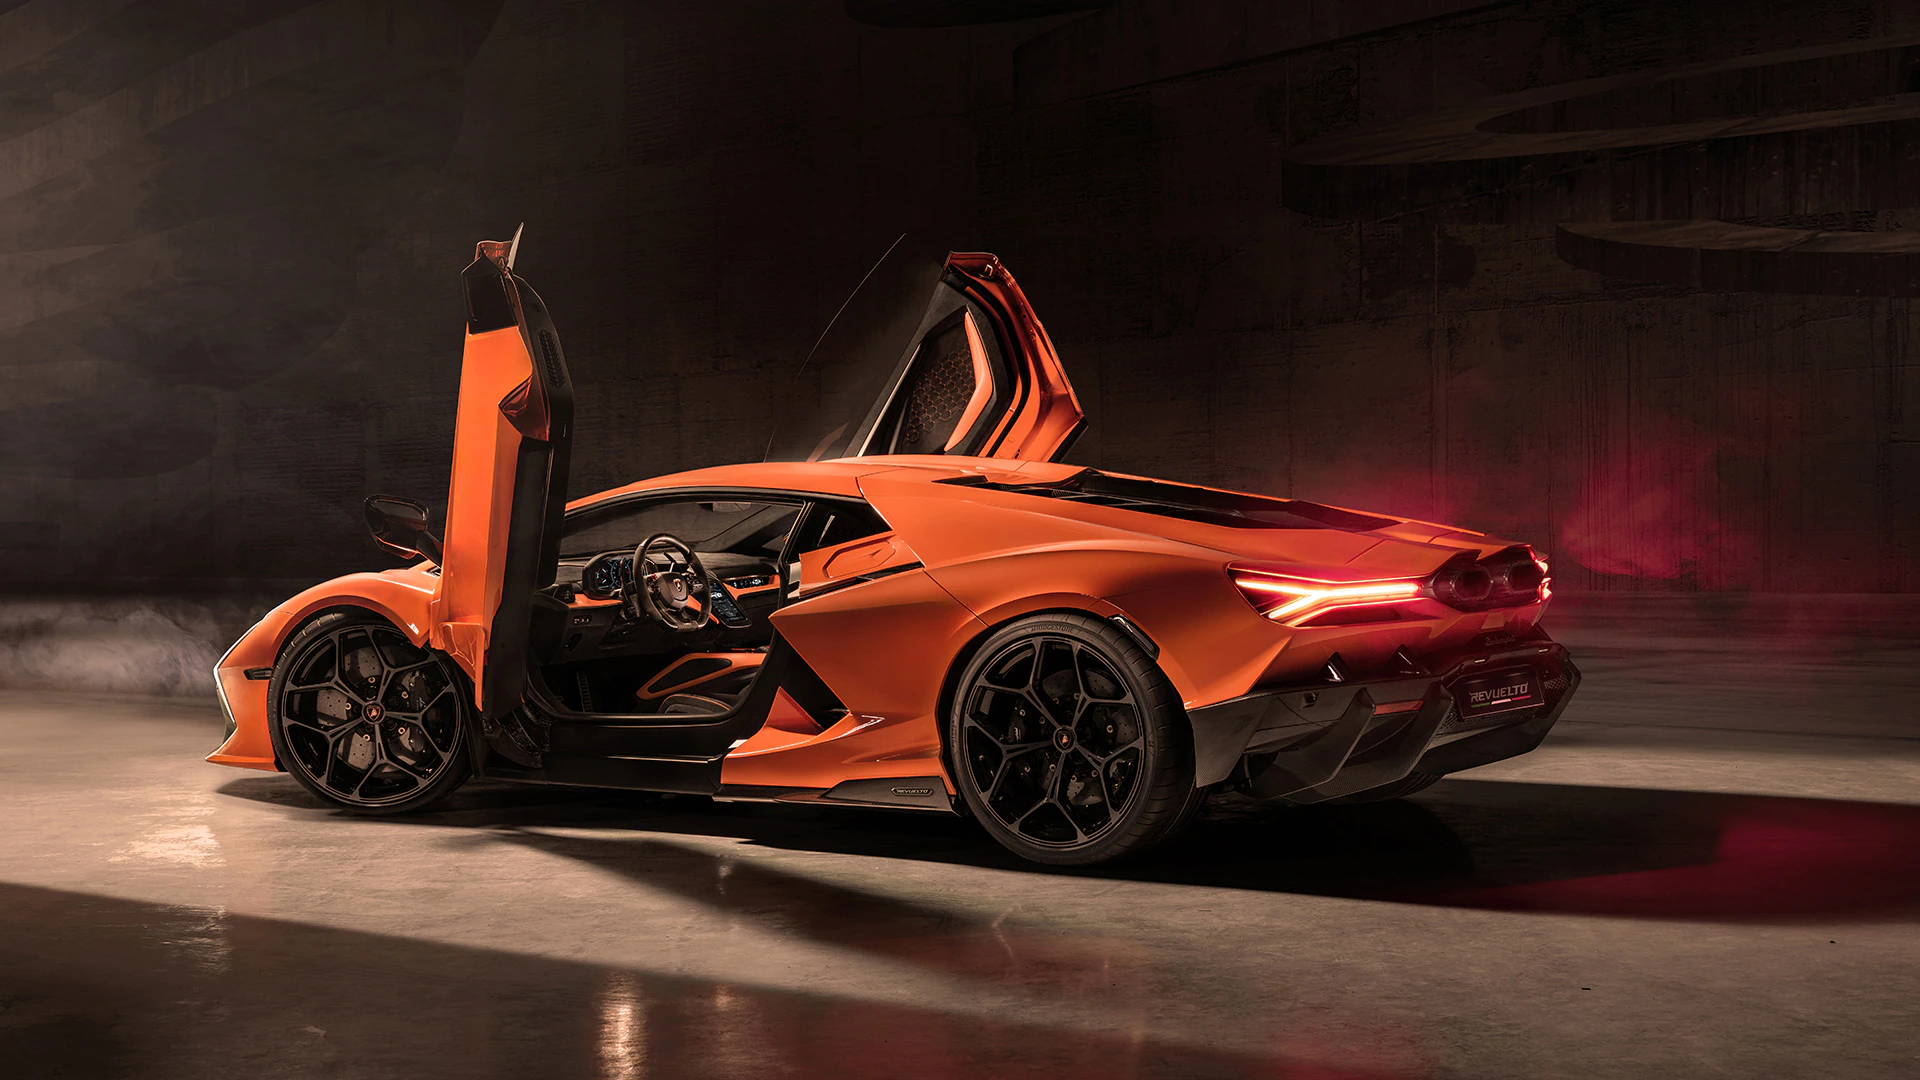
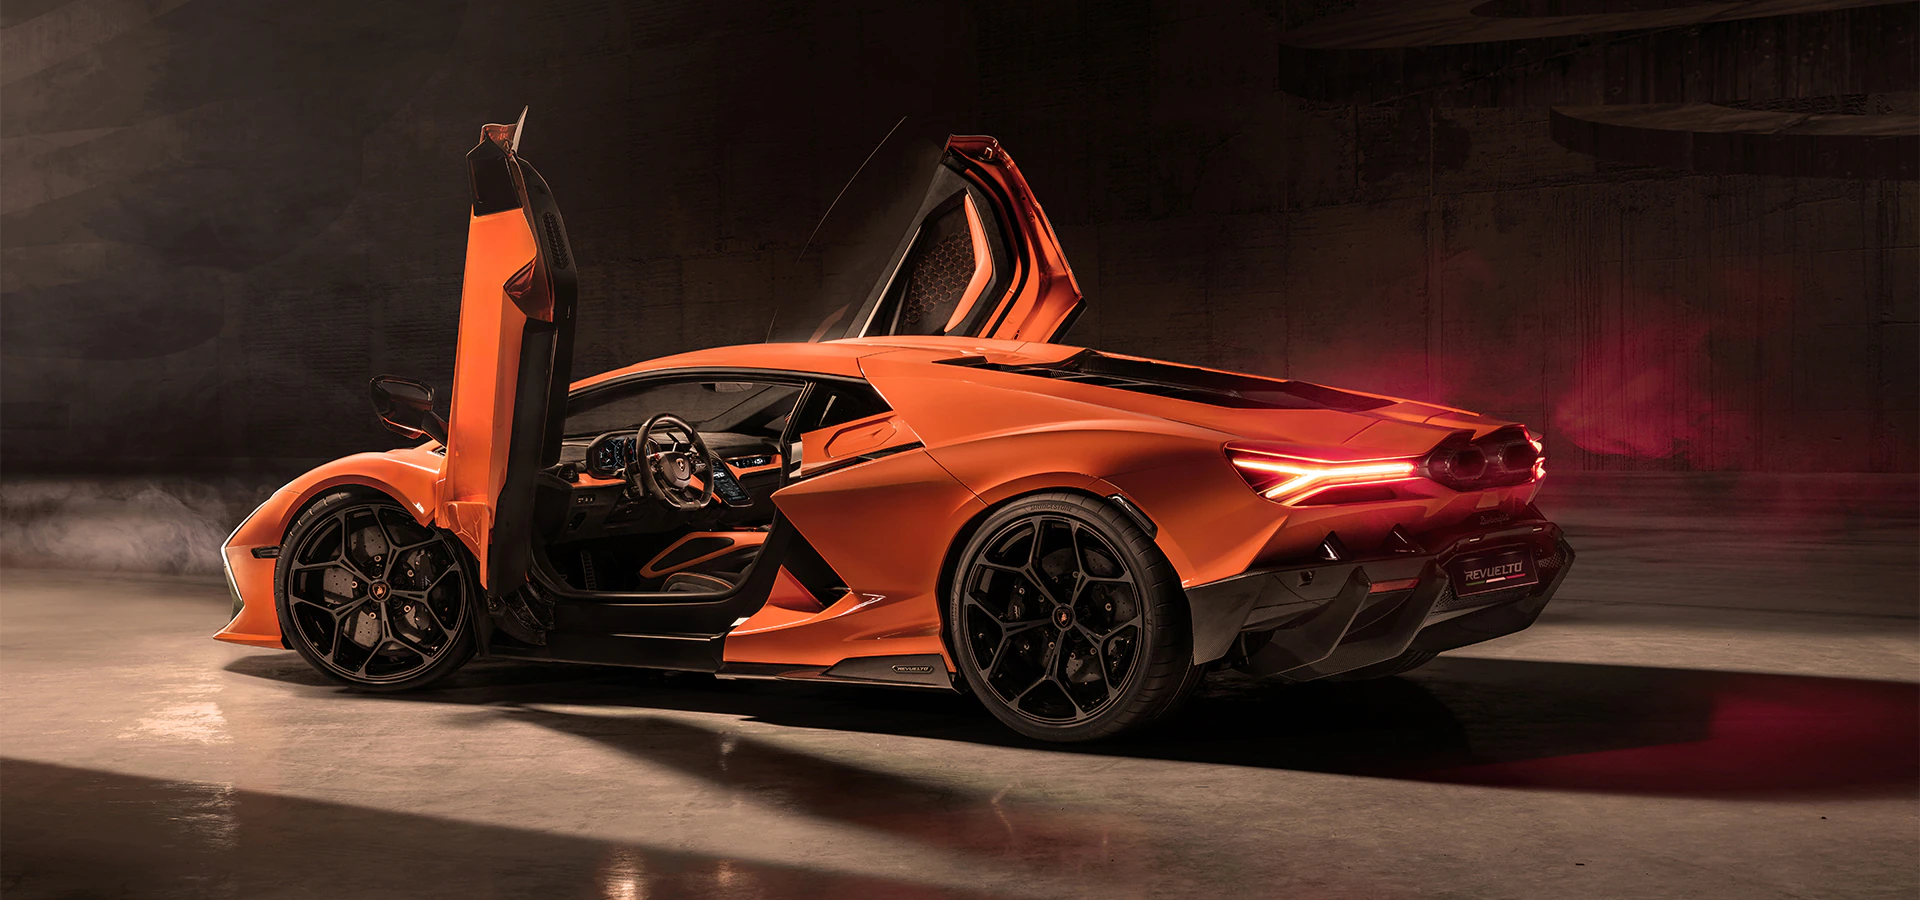
Revuelto_slider

diff --git a/html/Revuelto.html b/html/Revuelto.html
@@ -1160,16 +1160,16 @@
         <img class="d-block w-100" src="../resources/Revuelto/slider1.webp" alt="First slide">
       </div>
       <div class="carousel-item">
-        <img class="d-block w-100" src="../resources/Revuelto/slider1.webp" alt="Second slide">
+        <img class="d-block w-100" src="../resources/Revuelto/slider2.webp" alt="Second slide">
       </div>
       <div class="carousel-item">
-        <img class="d-block w-100" src="../resources/Revuelto/slider1.webp" alt="Third slide">
+        <img class="d-block w-100" src="../resources/Revuelto/slider3.jpg" alt="Third slide">
       </div>
       <div class="carousel-item">
-        <img class="d-block w-100" src="../resources/Revuelto/slider1.webp" alt="Third slide">
+        <img class="d-block w-100" src="../resources/Revuelto/slider4.jpg" alt="Third slide">
       </div>
       <div class="carousel-item">
-        <img class="d-block w-100" src="../resources/Revuelto/slider1.webp" alt="Third slide">
+        <img class="d-block w-100" src="../resources/Revuelto/slider5.jpg" alt="Third slide">
       </div>
     </div>
     <a class="carousel-control-prev" href="#carouselExampleIndicators" role="button" data-slide="prev">

diff --git a/css/Revuelto/Revuelto.css b/css/Revuelto/Revuelto.css
@@ -469,8 +469,6 @@ p {
   .vid-row>div {
     height: 25rem;
   }
-  
-
 }
 
 @media (min-width: 576px) and (max-width: 768px) {
